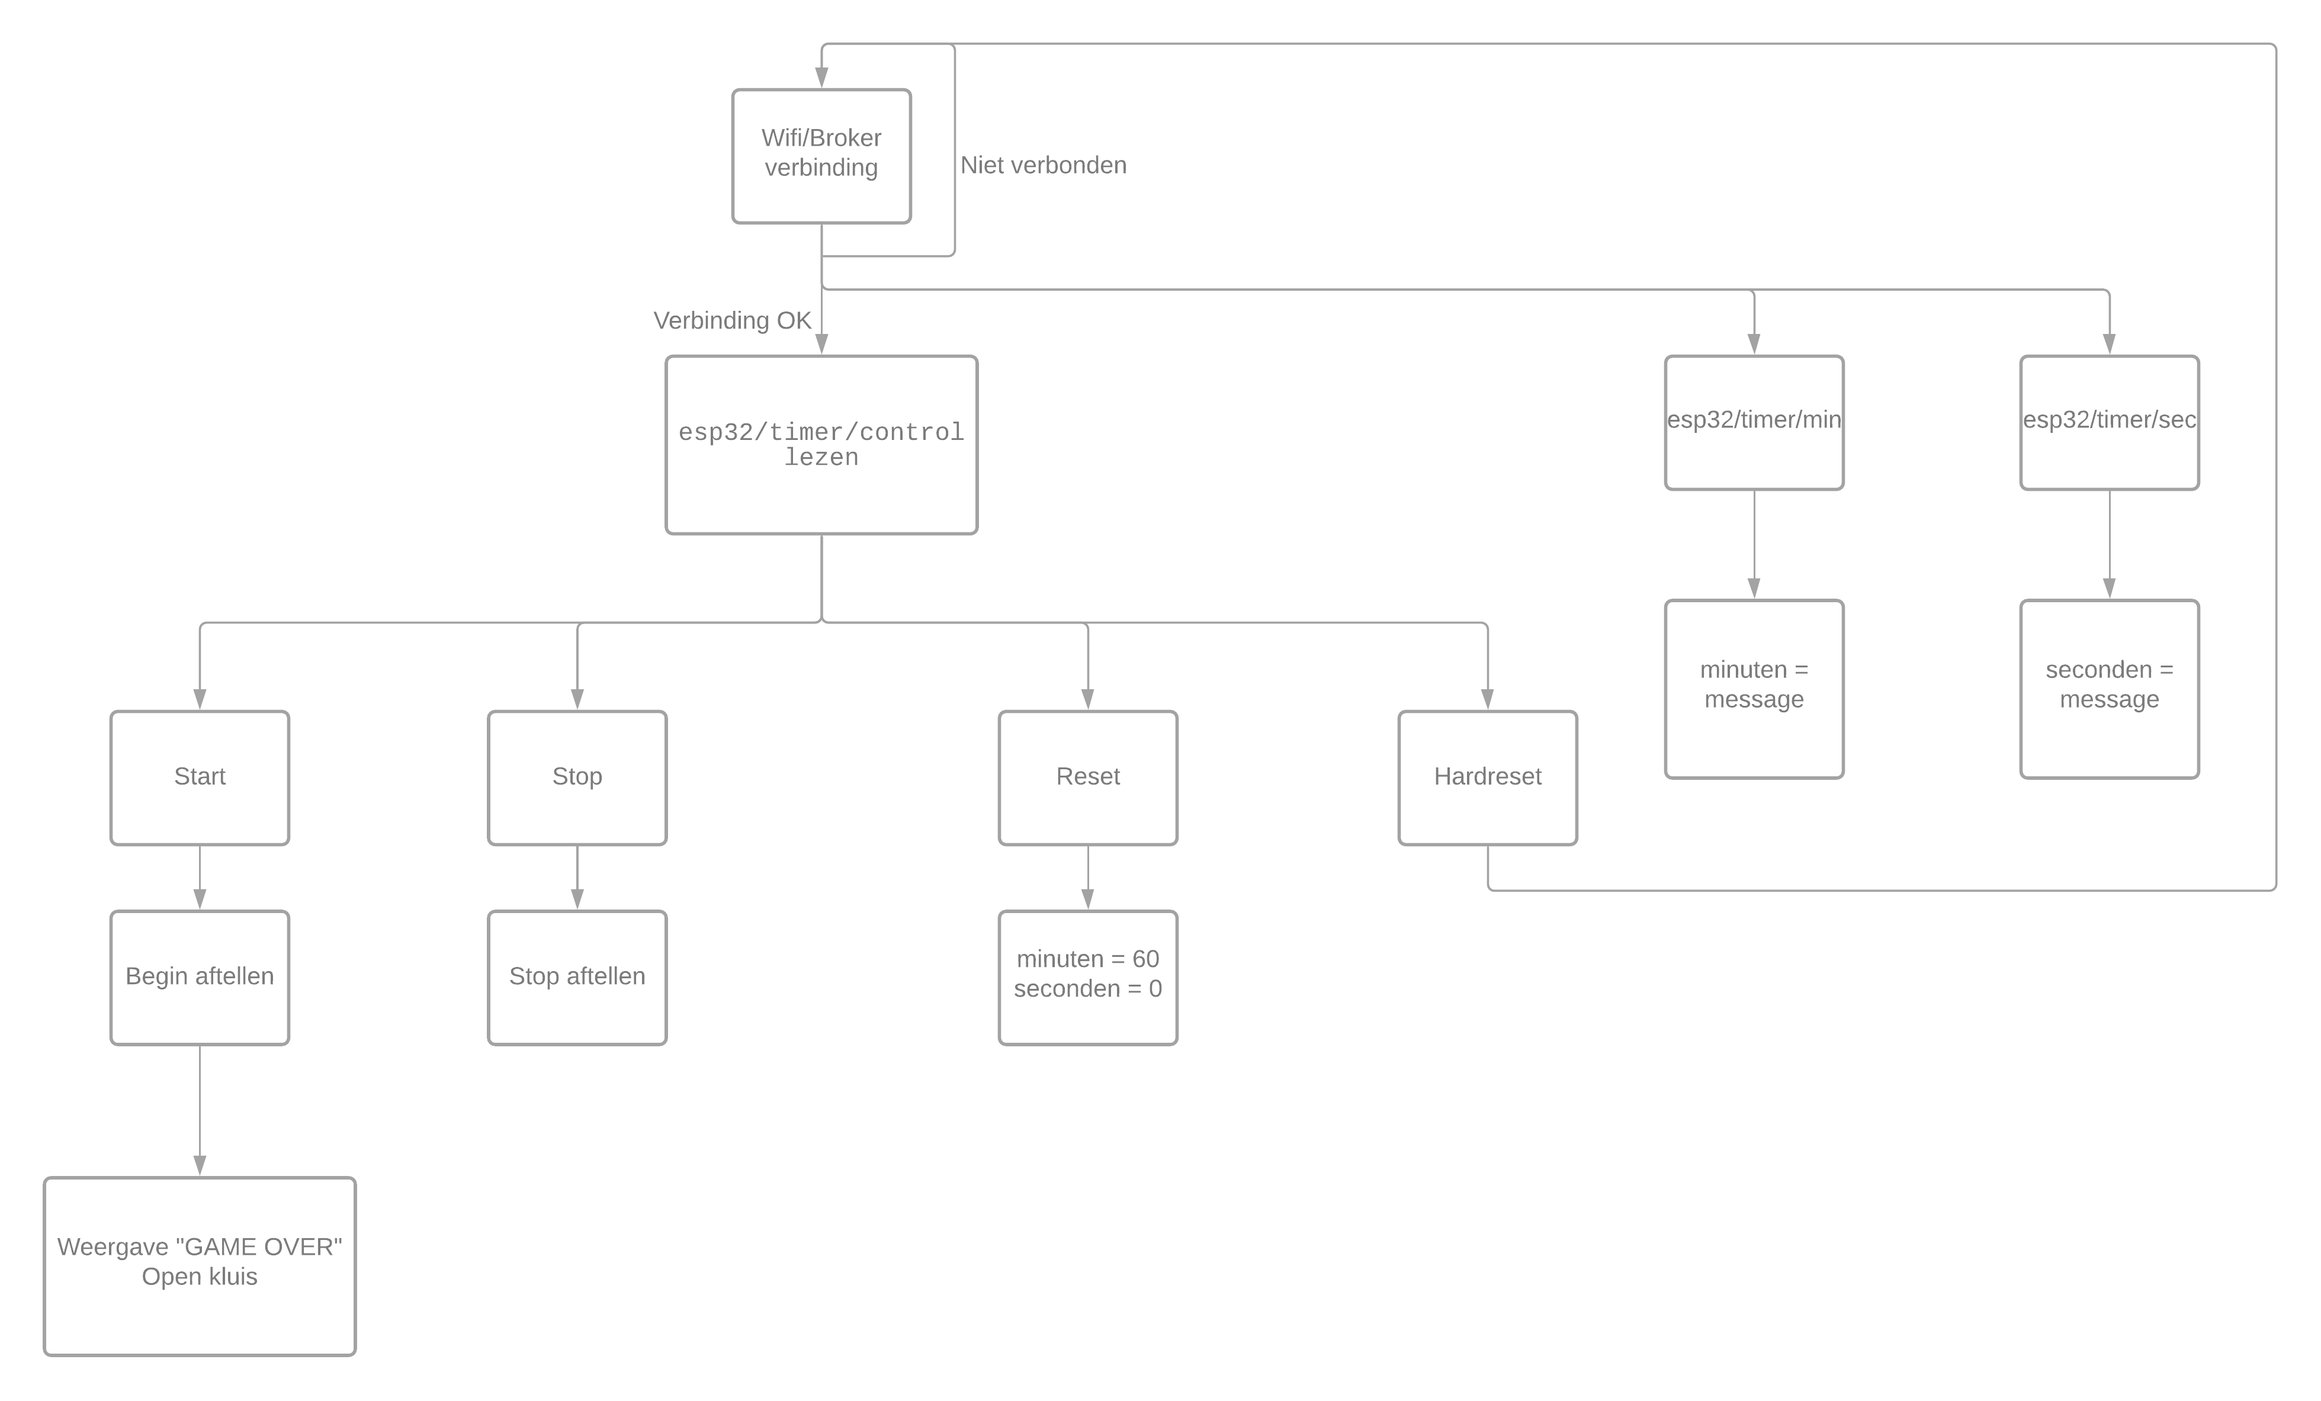
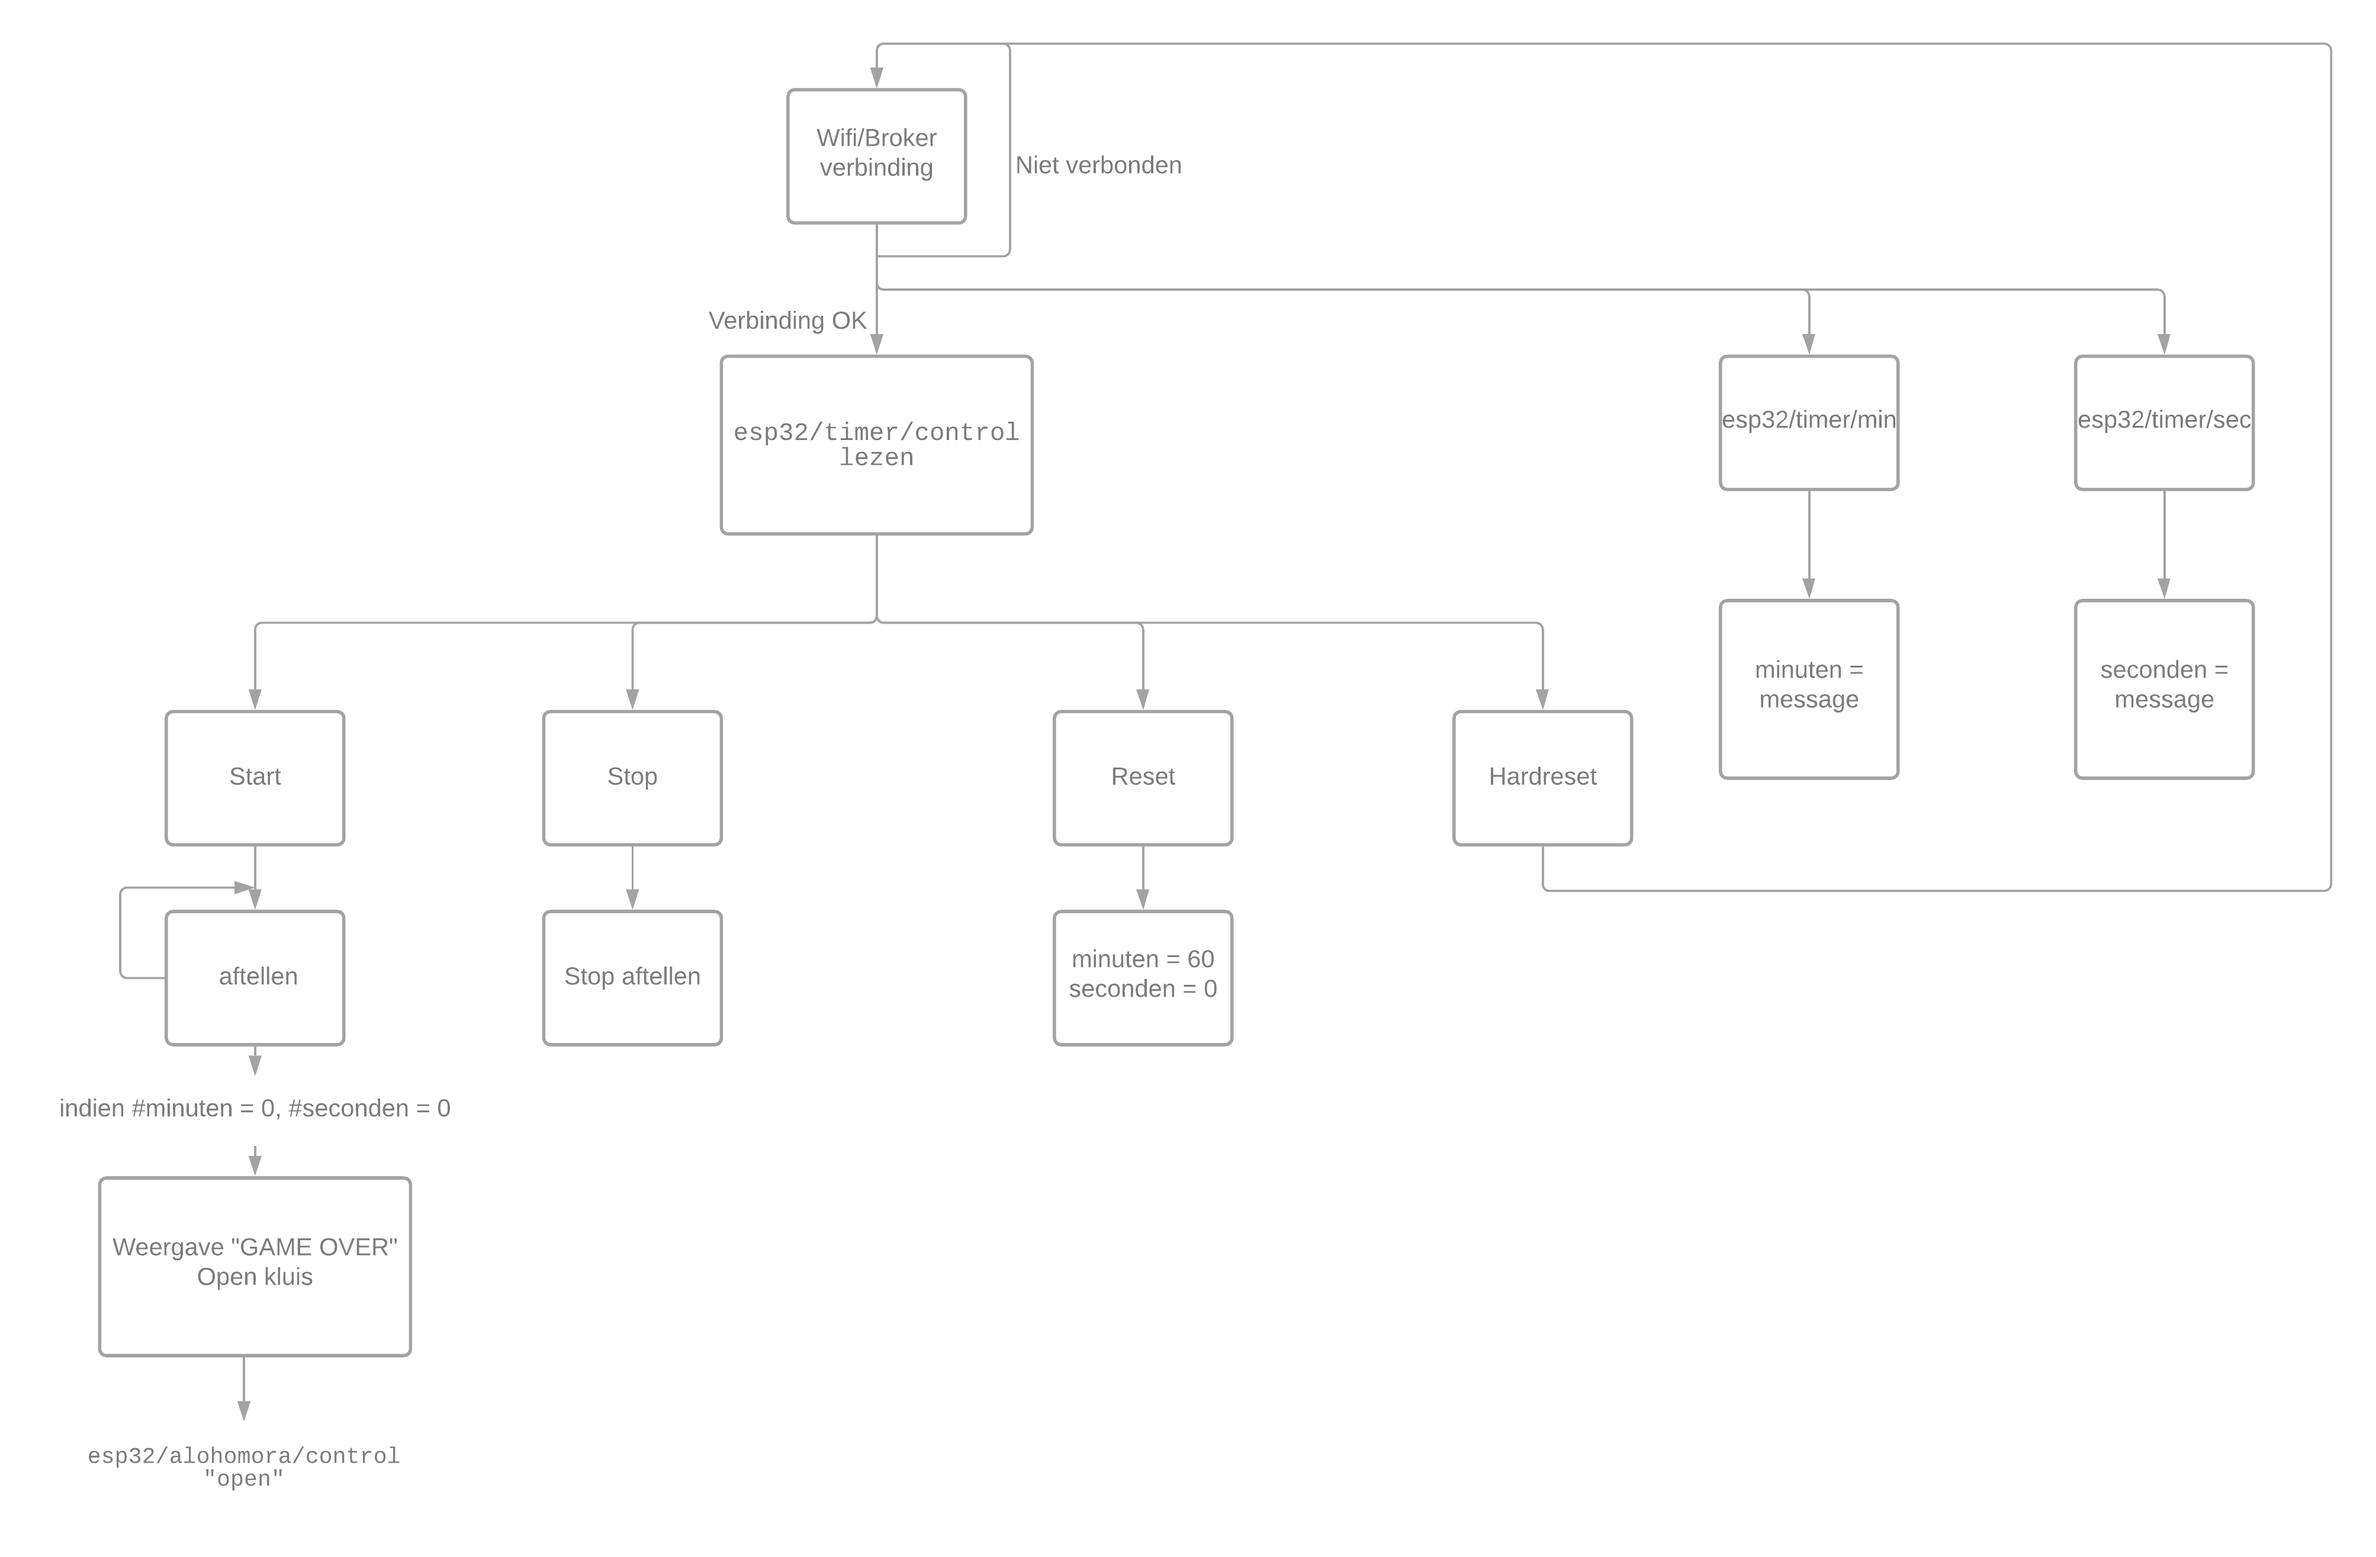
Timer algemeen

diff --git a/docs/Alohomora/index.md b/docs/Alohomora/index.md
@@ -11,7 +11,19 @@ has_children: true
 ## Inhoud
 
 - [Touchlock](#Touchlock)
+    - [Algemeen](#Algemeen)
+    - [Blokschema](#Blokschema)
+    - [Communicatie](#Communicatie)
+    - [Opstelling](#Opstelling)
+    - [Error handling](#Error handling)
+
 - [Timer](#Timer)
+    - [Algemeen](#Algemeen)
+    - [Blokschema](#Blokschema)
+    - [Communicatie](#Communicatie)
+    - [Opstelling](#Opstelling)
+    - [Error handling](#Error handling)
+
 
 ## Touchlock
 
@@ -25,19 +37,65 @@ De touchscreen zelf zal niet responsief zijn tot alle nodige info doorgestuurd i
 Door dit gedrag van de ESP32 is er wel geen manier om het slot vanop afstand te openen eens de wifi uitgeschakeld is. Om hier eventuele problemen op te lossen voorzien we simpelweg code '0000' als noodoplossing moest iemand in de kamer zelf in paniek raken. Als de wifi nog aan staat kan er simpelweg van buitenaf een signaal gestuurd worden om het compartiment met de sleutel te openen.
 
 ### Blokschema
-![Blokschema](Blokschema.png)
+![Blokschema](Kluis_Algemeen.png)
 
 ### Communicatie
-Alle communicatie verloopt via de broker. De touchlock ontvangt in principe alleen maar data en verzendt zelf nooit, behalve dan voor debug doeleinden. De gebruikte channels zijn:
+Alle communicatie verloopt via de broker. De touchlock ontvangt in principe alleen maar data en verzendt zelf slechts 1 keer naar een kanaal van de timer, behalve dan voor debug doeleinden zal meer gebruik worden gemaakt van publish functies. De gebruikte channels zijn:
 - "esp32/alohomora/control" dit kanaal wordt enkel gebruikt als er handmatig moet ingegrepen worden wanneer de ESP32 nog in wifi mode staat. Bij perfecte werking wordt dit kanaal in principe niet benut.
 - "esp32/alohomora/code1" de kanalen van deze vorm hebben als enig nut om de correcte digit te ontvangen en die op de daarmee corresponderende positie in de code te plaatsen.
 - "esp32/alohomora/code2","esp32/alohomora/code3","esp32/alohomora/code4" zie hierboven.
+
+Wanneer de touchlock de juiste code ontvangt die leidt tot het openen van de kluis, zal deze zorgen dat de timer stopt met aftellen, hiervoor wordt gebruik gemaakt van volgend kanaal:
+- esp32/timer/control: message = stop
 
 ### Opstelling
 Aangezien de touchlock de sleutel bevat die de uitweg biedt uit de escape room is het logisch om de opstelling zo dicht mogelijk bij de deur te plaatsen. Door het feit dat we in het voorziene lokaal niets aan de muur mogen bevestigen zorgen we er wel best voor dat het geheel tegen een muur staat, alles zou stevig genoeg moeten zijn maar er is niet uitvoerig getest op schudden en kantelen en dit zou anders voor problemen kunnen zorgen. 
 
 ### Error handling
+Wanneer de kluis niet zou werken als men verwacht, is een eerste stap steeds om te controleren of de kabels nog goed zijn aangesloten in het circuit.
+
+Een volgende stap is het controleren of de esp32 kan verbinden met de broker. Dit doen we op verschillende manieren:
+- Controleren of we handmatig via de broker GUI de kluis kunnen besturen
+- Nakijken of we de broker terug vinden op het netwerk met zijn vast IP-adres: 192.168.1.2
+- Nakijken of de router verbinding heeft met het internet
+
+Verder kan het zijn dat de LiPo batterij geen hoog genoeg voltage meer kan leveren doordat deze al te veel ontladen is, we kunnen dan het probleem proberen oplossen door deze opnieuw te laten opladen.
+
+Indien we nog steeds geen oorzaak van de verkeerde werking van het probleem hebben gevonden, kunnen we controleren of er geen kortsluiting is gebeurd op het PCB.
+We gaan dan het circuit na met behulp van een multimeter en controleren of hier niets verkeerd aan is gelopen.
 
 ## Timer
+### Algemeen
+De timer heeft als functie de spelers duidelijk te maken hoeveel tijd hen nog resteert om te ontsnappen uit de escaperoom. Ze vinden deze ergens op een duidelijke plaats in de kamer en zullen zelf moeten ondervinden dat ze binnen de tijd aangeduidt door de timer moeten ontsnappen. De timer is opgebouwd uit een klein doosje waaruit een zeven segment display kan gevonden worden. Vanaf het spel in werking treed, zal deze beginnen aftellen vanaf een ingestelde tijd (standaard 60 minuten). Wanneer de kluis binnen de tijd kan worden geopend zal de timer stoppen met aftellen en kunnen de spelers controleren hoelang ze er juist over hebben gedaan om te ontsnappen. Wanneer de tijd echter om is, zijn ze er niet ingeslaagd om de puzzel op tijd op te lossen en zal de timer via MQTT de kluis openen zodat de spelers de kamer kunnen verlaten er wordt voor de duidelijkheid "GAME OVER" op het display weergegeven.
+
+### Blokschema
+![Blokschema](Timer_Algemeen.png)
+
+### Communicatie
+Alle communicatie van de timer verloopt via de broker, zelf is niet veel interactie nodig met de timer en andere delen in de escape room. Voor de minimale werking van de timer maken we gebruik van de volgende kanalen:
+- esp32/timer/control: wordt gebruikt om de timer te laten resetten, starten met aftellen, stoppen met aftellen, opnieuw verbinding maken met de broker.
+Wanneer de tijd om is wordt de kluis geopend, hiervoor wordt het bericht "open" gepublished op onderstaand kanaal:
+- esp32/alohomora/control
+
+We hebben er verder ook voor gezorgd dat we de timer via de GUI van de broker zelf kunnen instellen en zo de tijd vooraf kunnen regelen. De kanalen die we hiervoor gebruiken zijn:
+- esp32/timer/min waarbij we het aantal minuten doorgeven via het bericht naar de timer
+- esp32/timer/sec waarbij we het aantal seconden doorgeen via het bericht naar de timer
+
+Verder is het ook mogelijk om via de GUI de controle mogelijkheden te simuleren op het kanaal esp32/timer/control.
+
+### Opstelling
+De timer zit ingewerkt in een houten frame die overal in dekamer kan worden geplaatst. Een niet onbelangrijke vereiste is wel dat de timer goed zichtbaar is voor de spelers zodat ze duidelijk weten dat de escaperoom tijdsgebonden is, en er zo toch een zekere stressfactor aanwezig is.
+
+### Error handling
+Veel fouten zijn we zelf nog niet tegenkomen bij de werking van de timer, dit doordat het relatief eenvoudig is opgebouwd.
+Indien er toch fouten zouden oplopen, kan men letten op de volgende zaken.
+Wanneer de timer niet meer aftelt wanneer dit toch de bedoeling is kan men:
+- Nakijken of de timer verbonden is met de broker. Dit kan door gebruik te maken van de GUI.
+Indien het segment display niet meer oplicht:
+- Controleren of de powerbank het circuit nog voedt.
+- Nakijken of de PCB naar behoren werkt (geen oververhitting, geen componenten die missen,..)
+
+
+
 
  
